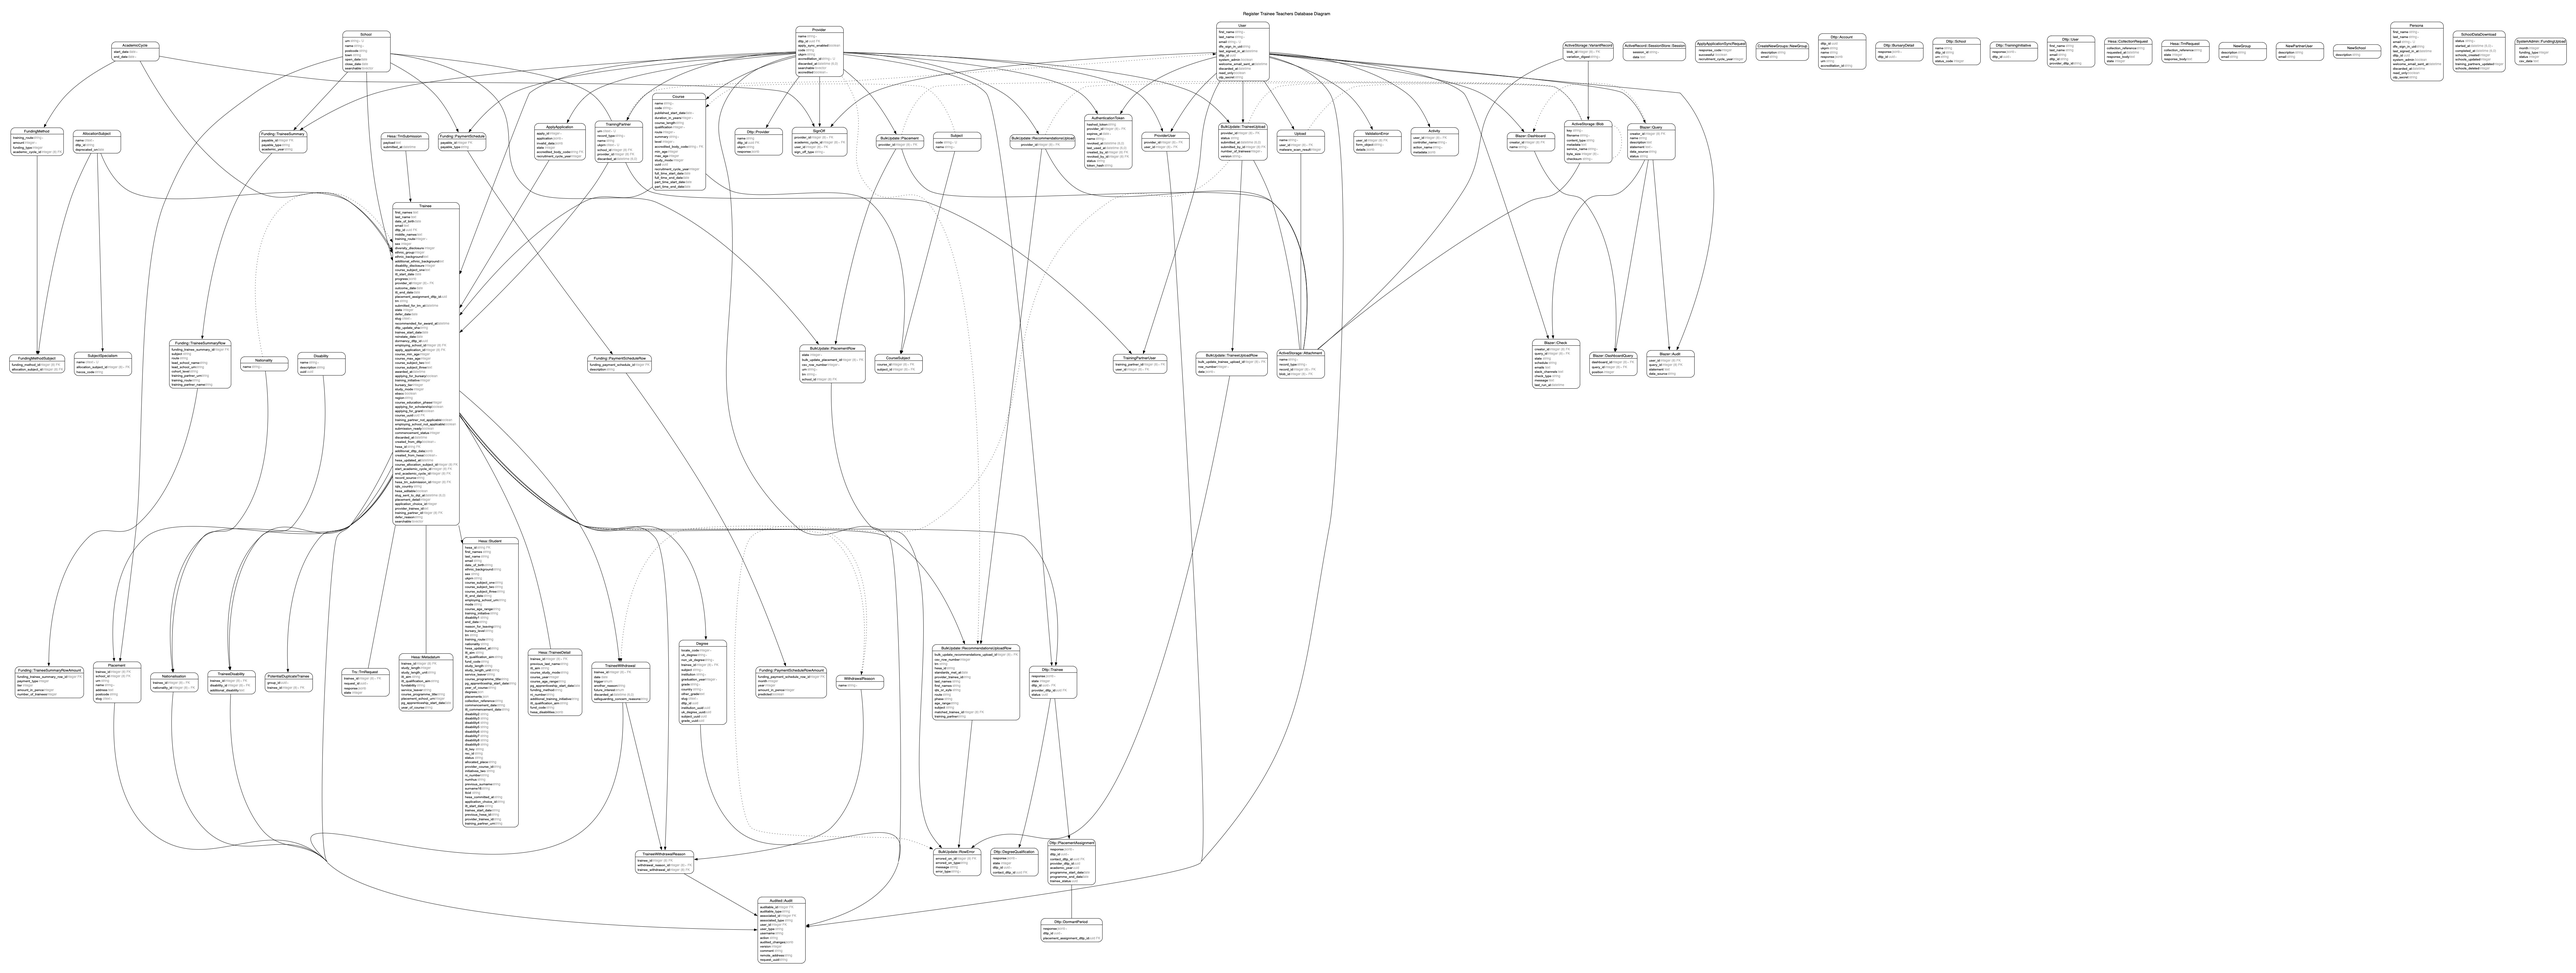
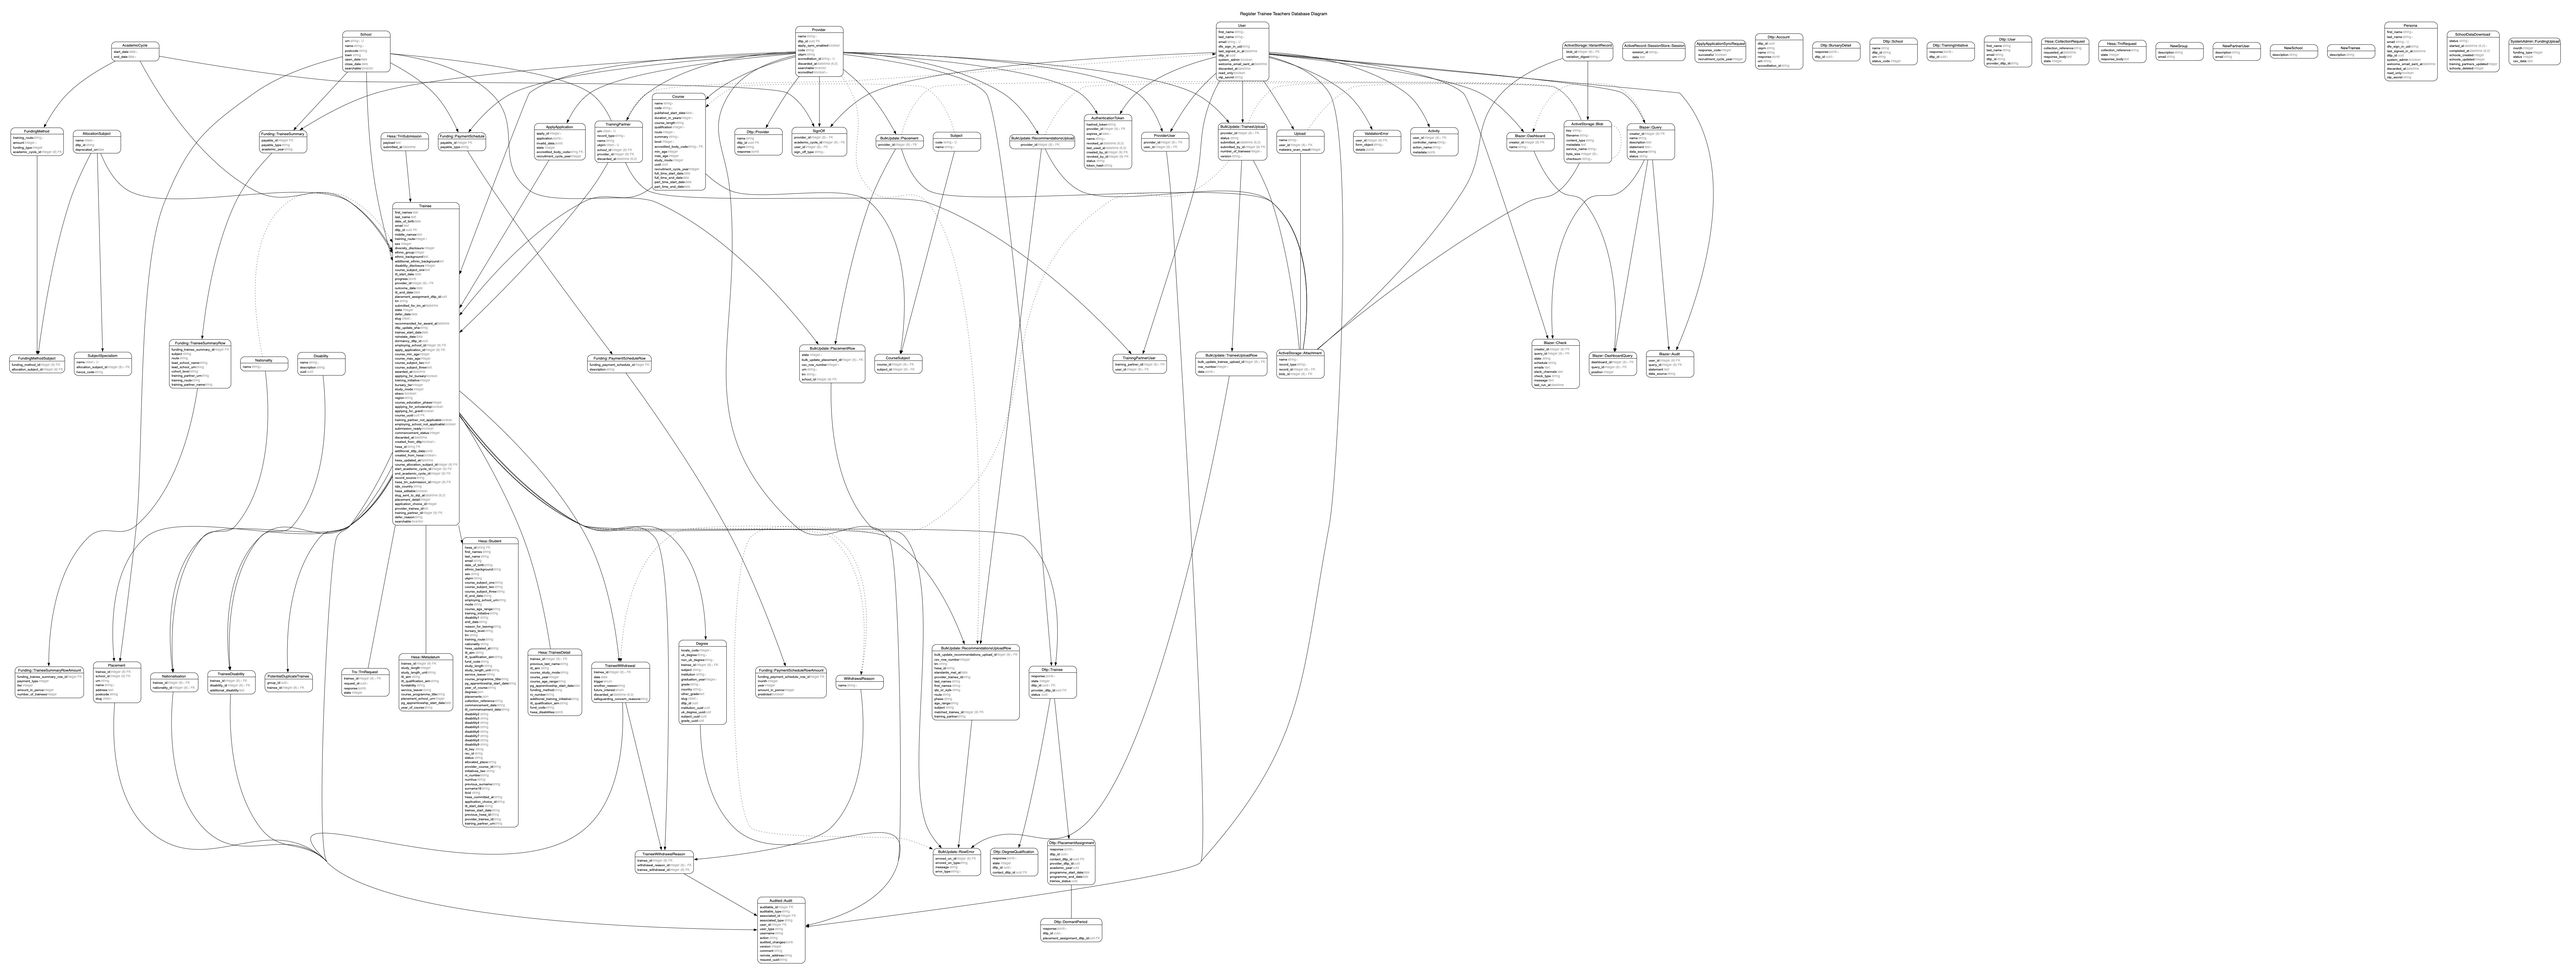
Add DB Migratun for new_trainees

diff --git a/db/schema.rb b/db/schema.rb
@@ -10,7 +10,7 @@
 #
 # It's strongly recommended that you check this file into your version control system.
 
-ActiveRecord::Schema[7.2].define(version: 2026_01_19_194204) do
+ActiveRecord::Schema[7.2].define(version: 2026_01_20_092259) do
   # These are extensions that must be enabled in order to support this database
   enable_extension "btree_gist"
   enable_extension "citext"
@@ -754,6 +754,12 @@ ActiveRecord::Schema[7.2].define(version: 2026_01_19_194204) do
   end
 
   create_table "new_schools", force: :cascade do |t|
+    t.string "description"
+    t.datetime "created_at", null: false
+    t.datetime "updated_at", null: false
+  end
+
+  create_table "new_trainees", force: :cascade do |t|
     t.string "description"
     t.datetime "created_at", null: false
     t.datetime "updated_at", null: false

diff --git a/app/models/new_trainee.rb b/app/models/new_trainee.rb
@@ -1,0 +1,13 @@
+# frozen_string_literal: true
+
+# == Schema Information
+#
+# Table name: new_trainees
+#
+#  id          :bigint           not null, primary key
+#  description :string
+#  created_at  :datetime         not null
+#  updated_at  :datetime         not null
+#
+class NewTrainee < ApplicationRecord
+end

diff --git a/db/migrate/20260120092259_create_new_trainees.rb b/db/migrate/20260120092259_create_new_trainees.rb
@@ -1,0 +1,11 @@
+# frozen_string_literal: true
+
+class CreateNewTrainees < ActiveRecord::Migration[7.2]
+  def change
+    create_table :new_trainees do |t|
+      t.string :description
+
+      t.timestamps
+    end
+  end
+end
